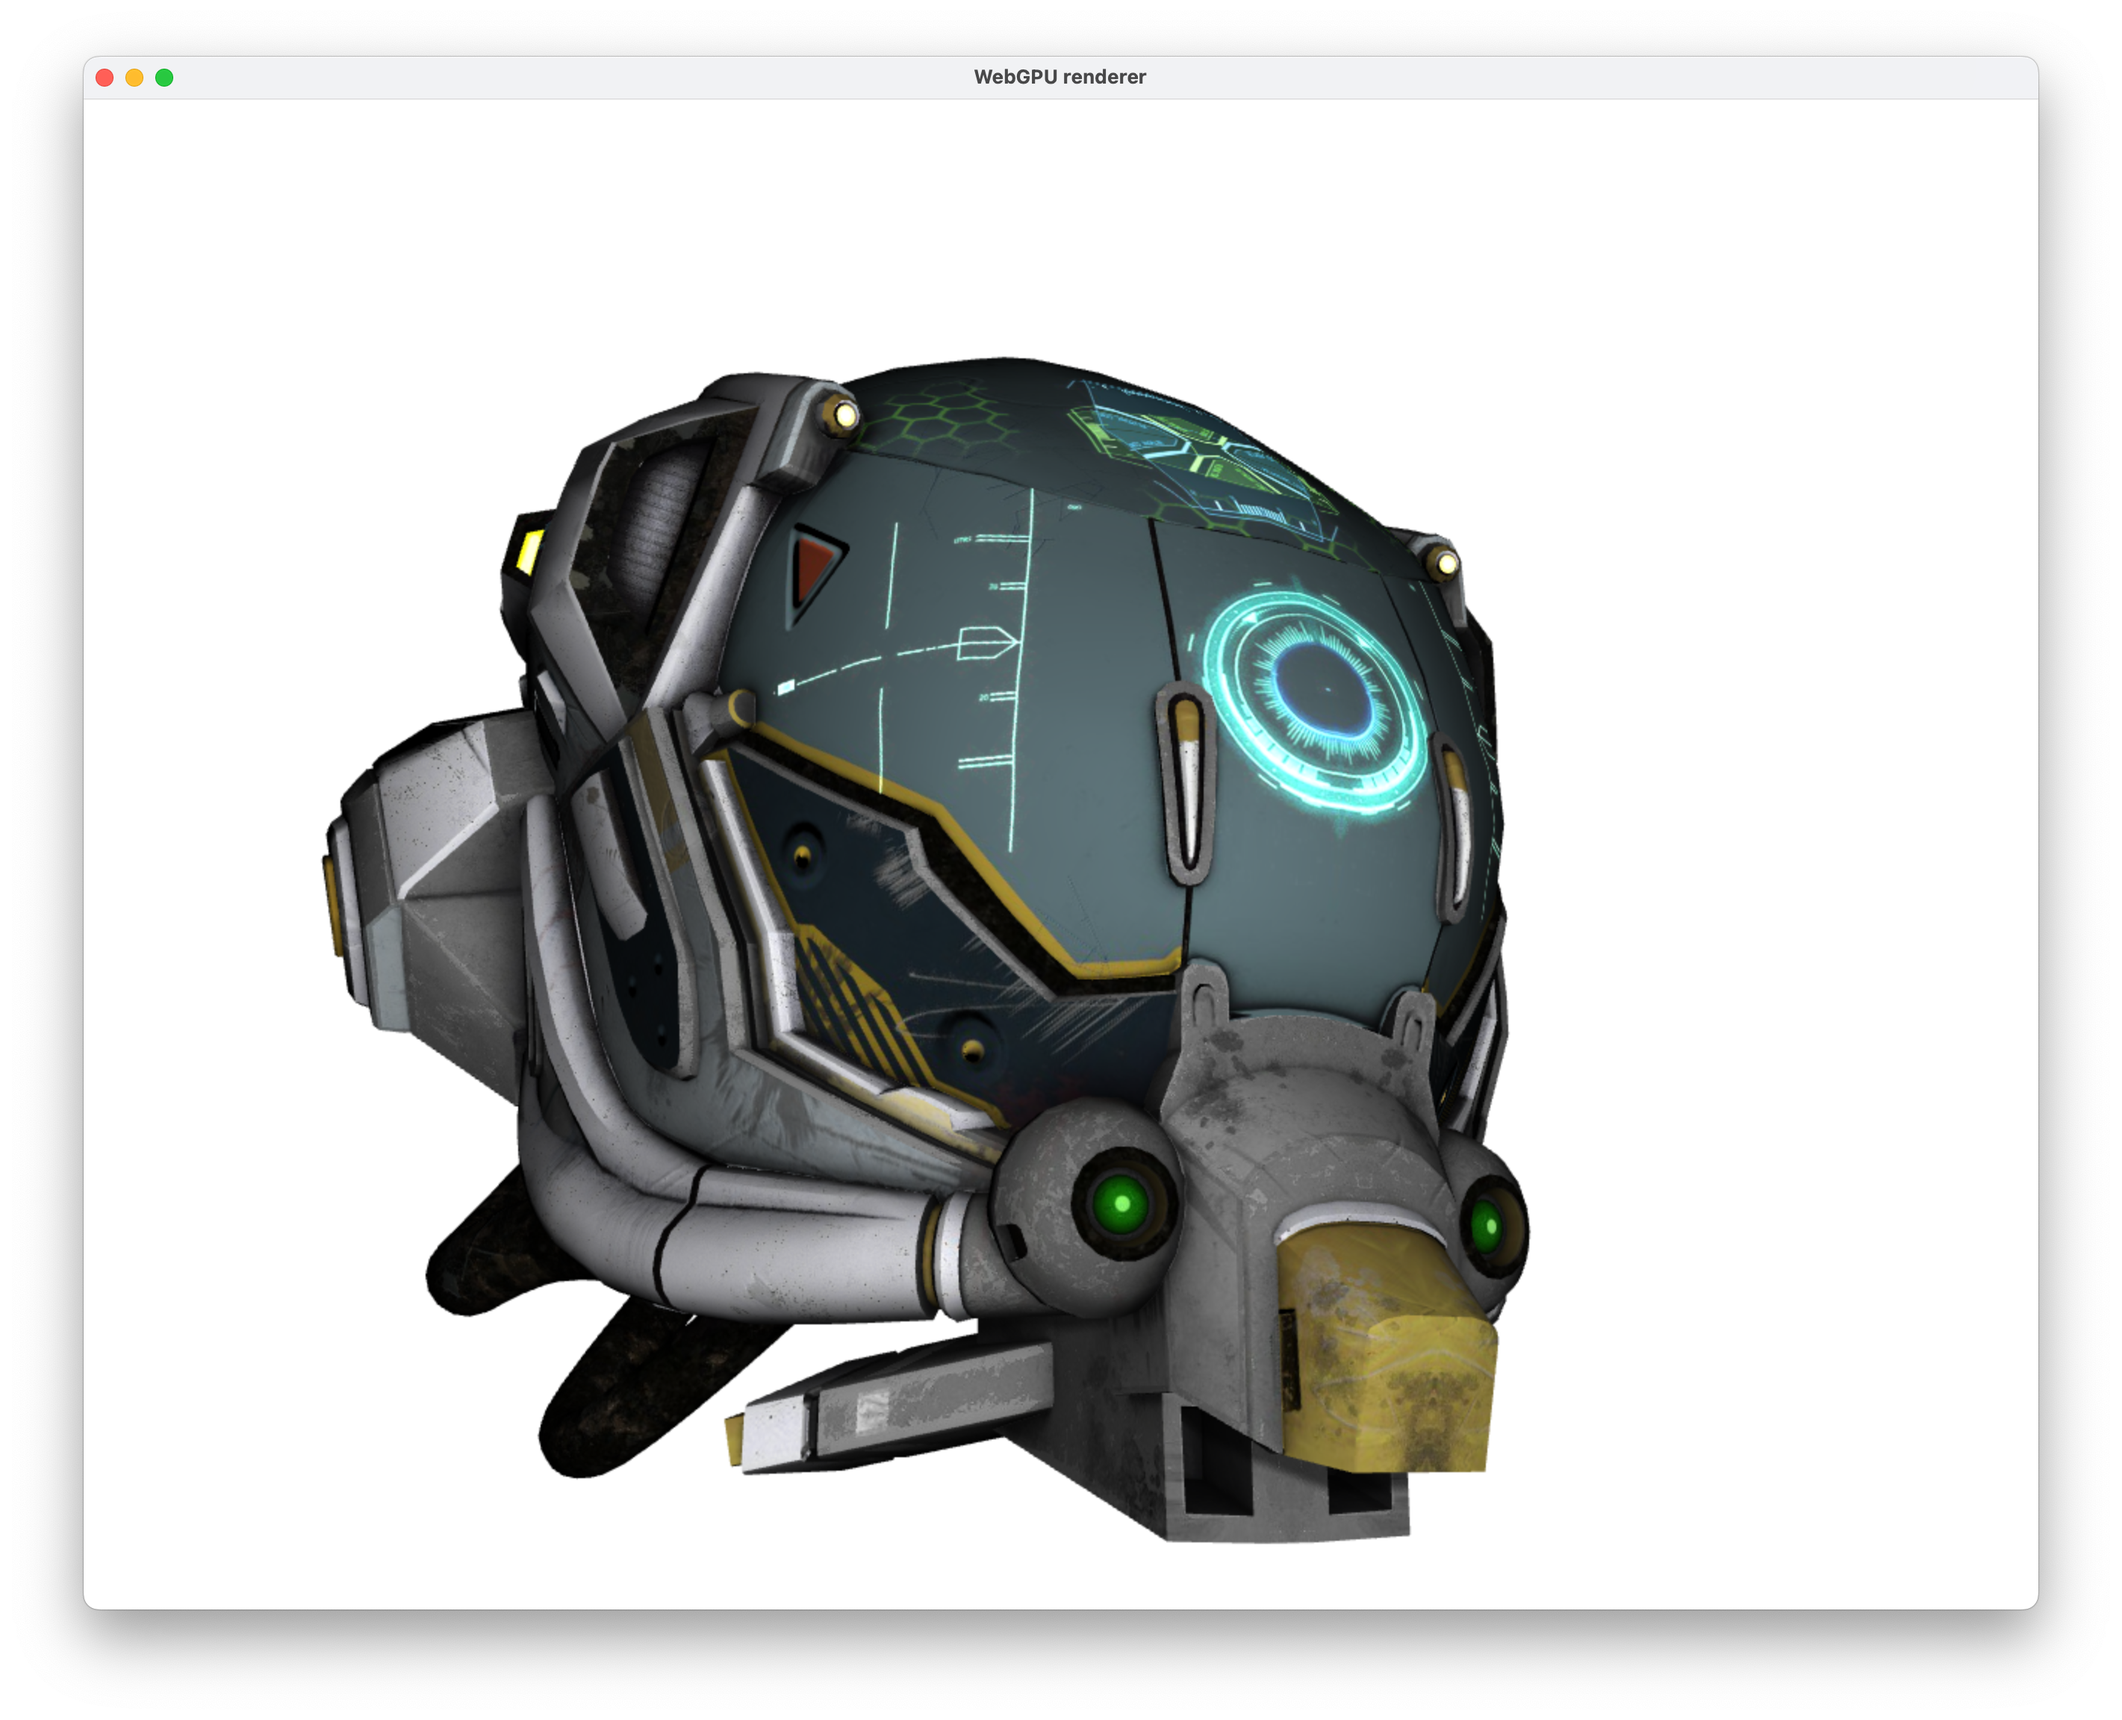
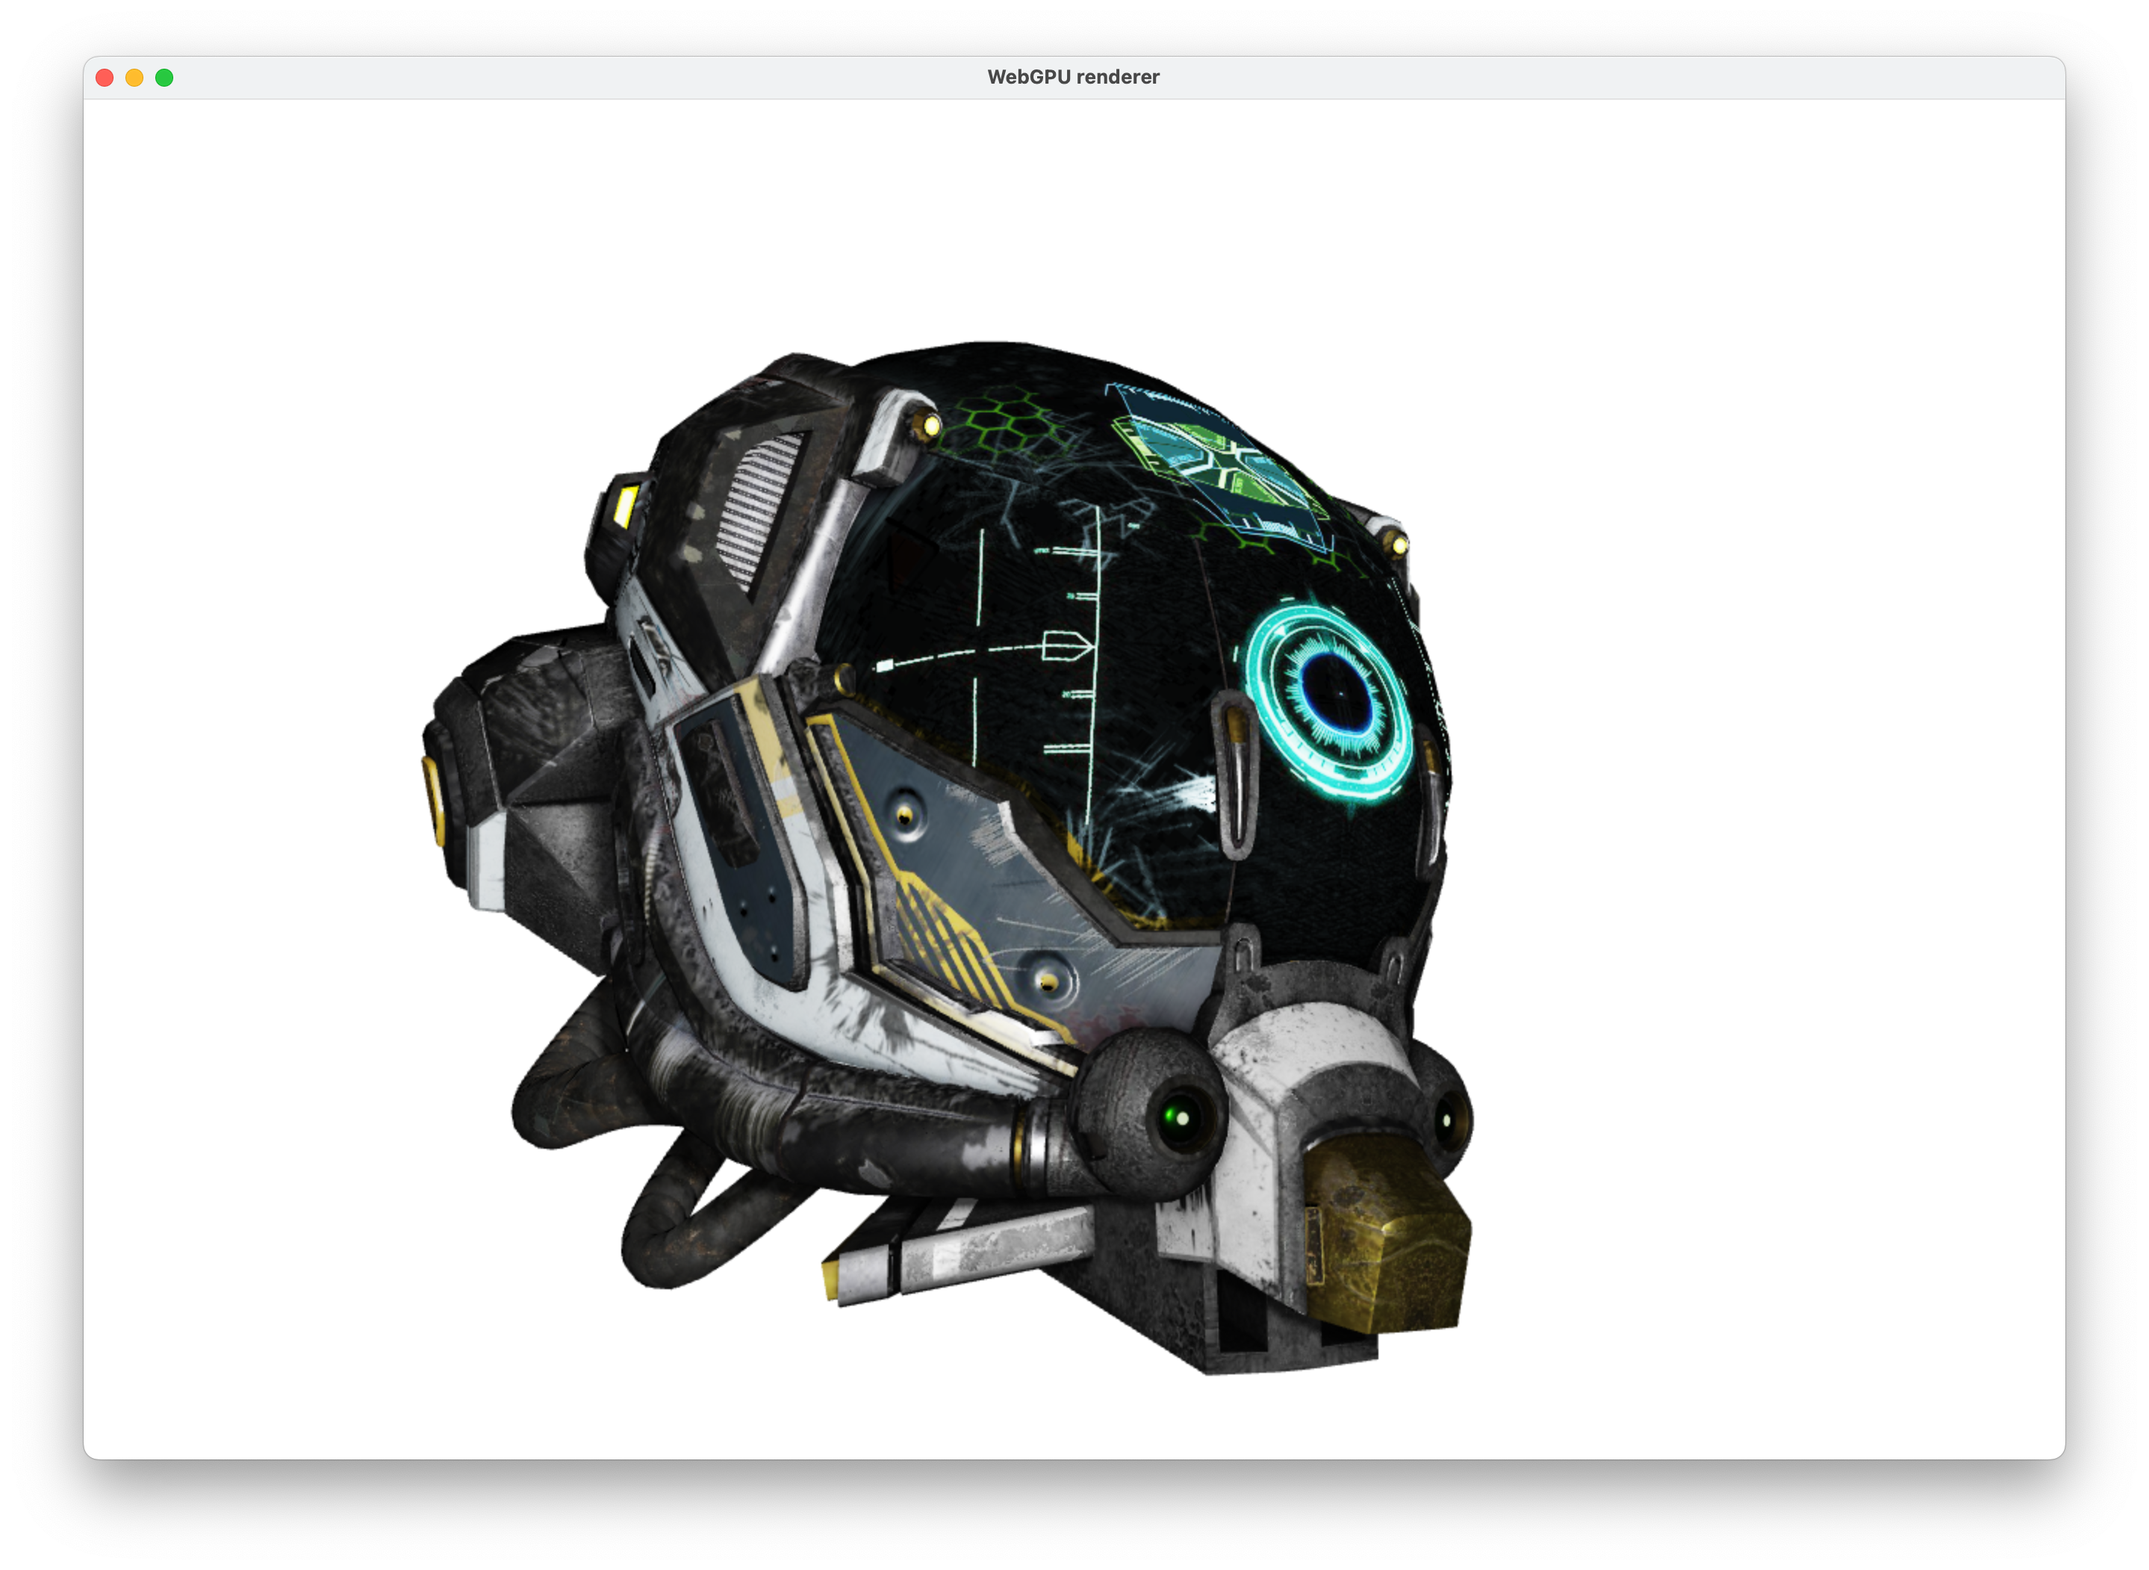
Use pbr shading

diff --git a/src/graphics/renderpass.cpp b/src/graphics/renderpass.cpp
@@ -48,11 +48,12 @@ void RenderPass::drawCommands(WGPURenderPassEncoder renderPass, const std::vecto
         Texture* occlusionTexture;
         Texture* normalsTexture;
         Texture* emissiveTexture;
+        Texture* metallicRoughnessTexture;
 
         if (renderable->material.baseColorTexture.has_value())
         {
             const Image& image = renderable->material.baseColorTexture.value();
-            baseColorTexture = &m_gpu.getResourcePool().get(&image);
+            baseColorTexture = &m_gpu.getResourcePool().get(&image, true);
         }
 
         if (renderable->material.occlusion.has_value())
@@ -70,10 +71,17 @@ void RenderPass::drawCommands(WGPURenderPassEncoder renderPass, const std::vecto
         if (renderable->material.emissive.has_value())
         {
             const Image& image = renderable->material.emissive.value();
-            emissiveTexture = &m_gpu.getResourcePool().get(&image);
+            emissiveTexture = &m_gpu.getResourcePool().get(&image, true);
         }
+
+        if (renderable->material.metallicRoughness.has_value())
+        {
+            const Image& image = renderable->material.metallicRoughness.value();
+            metallicRoughnessTexture = &m_gpu.getResourcePool().get(&image);
+        }
+
         // TODO: only rebind model group
-        createBindings(baseColorTexture, occlusionTexture, normalsTexture, emissiveTexture); 
+        createBindings(baseColorTexture, occlusionTexture, normalsTexture, emissiveTexture, metallicRoughnessTexture); 
 
         uint32_t dataOffset = index * m_gpu.uniformStride(sizeof(ModelData));
 
@@ -220,7 +228,7 @@ void RenderPass::createPipeline()
     blendState.alpha.operation = WGPUBlendOperation_Add;
 
     WGPUColorTargetState colorTarget{};
-    colorTarget.format      = m_renderTarget.m_surfaceFormat;
+colorTarget.format      = m_renderTarget.m_surfaceFormat;
     colorTarget.blend       = &blendState;
     colorTarget.writeMask   = WGPUColorWriteMask_All;
 
@@ -246,13 +254,14 @@ void RenderPass::createLayout(WGPURenderPipelineDescriptor& pipeline)
     fillDepthTextureBindGroupLayoutEntry        (frameEntries[1], 1);
     fillSamplerComparisonBindGroupLayoutEntry   (frameEntries[2], 2);
 
-    std::array<WGPUBindGroupLayoutEntry, 6> modelEntries{};
+    std::array<WGPUBindGroupLayoutEntry, 7> modelEntries{};
     fillUniformsBindGroupLayoutEntry (modelEntries[0], 0, sizeof(ModelData), true);
     fillSamplerBindGroupLayoutEntry  (modelEntries[1], 1);
     fillTextureBindGroupLayoutEntry  (modelEntries[2], 2);
     fillTextureBindGroupLayoutEntry  (modelEntries[3], 3);
     fillTextureBindGroupLayoutEntry  (modelEntries[4], 4);
     fillTextureBindGroupLayoutEntry  (modelEntries[5], 5);
+    fillTextureBindGroupLayoutEntry  (modelEntries[6], 6);
     
     WGPUBindGroupLayoutDescriptor groupLayoutFrame{};
     groupLayoutFrame.label = "grouplayout0 - per frame data";
@@ -277,7 +286,7 @@ void RenderPass::createLayout(WGPURenderPipelineDescriptor& pipeline)
     pipeline.layout = m_layout;
 }
 
-void RenderPass::createBindings(Texture* baseColorTexture, Texture* occlusionTexture, Texture* normalsTexture, Texture* emissiveTexture)
+void RenderPass::createBindings(Texture* baseColorTexture, Texture* occlusionTexture, Texture* normalsTexture, Texture* emissiveTexture, Texture* metallicRoughnessTexture)
 {
     for (WGPUBindGroup& group : m_bindGroups) if (group != nullptr)
         wgpuBindGroupRelease(group);
@@ -298,7 +307,7 @@ void RenderPass::createBindings(Texture* baseColorTexture, Texture* occlusionTex
     entryDepthSampler.binding = 2;
     entryDepthSampler.sampler = m_gpu.m_depthSampler;
 
-    std::array<WGPUBindGroupEntry, 6> bindings{};
+    std::array<WGPUBindGroupEntry, 7> bindings{};
     
     WGPUBindGroupEntry& entry1 = bindings[0];
     entry1.nextInChain = nullptr;
@@ -337,6 +346,13 @@ void RenderPass::createBindings(Texture* baseColorTexture, Texture* occlusionTex
         WGPUBindGroupEntry& entryEmissiveTexture = bindings[5];
         entryEmissiveTexture.binding = 5;
         entryEmissiveTexture.textureView = emissiveTexture->getTextureView();
+    }
+
+    if (metallicRoughnessTexture != nullptr)
+    {
+        WGPUBindGroupEntry& entryTexture = bindings[6];
+        entryTexture.binding = 6;
+        entryTexture.textureView = metallicRoughnessTexture->getTextureView();
     }
 
     WGPUBindGroupDescriptor group0{};

diff --git a/src/graphics/rendertarget.cpp b/src/graphics/rendertarget.cpp
@@ -14,7 +14,13 @@ WindowTarget::WindowTarget(Gpu& gpu)
     WGPUSurfaceCapabilities capabilities;
     capabilities.nextInChain = nullptr;
     wgpuSurfaceGetCapabilities(surface, gpu.m_adapter, &capabilities);
-    m_surfaceFormat = capabilities.formats[0];
+
+    for (int i = 0; i < capabilities.formatCount; i++)
+    {
+        std::cout << "Surface format supported: " << capabilities.formats[i] << std::endl;
+    }
+
+    m_surfaceFormat = WGPUTextureFormat::WGPUTextureFormat_BGRA8UnormSrgb;
 
     surfaceConfig.nextInChain      = nullptr;
     surfaceConfig.width            = 640;

diff --git a/src/graphics/resourcepool.cpp b/src/graphics/resourcepool.cpp
@@ -15,14 +15,14 @@ ResourcePool::~ResourcePool()
     
 };
 
-Texture& ResourcePool::get(const Image* image)
+Texture& ResourcePool::get(const Image* image, bool srgb)
 {
     auto it = m_poolTextures.find(image->getPixels());
     if (it == m_poolTextures.end()) 
     {
         Texture::Params params
         {
-            .format = Texture::Format::RGBA,
+            .format = srgb ? Texture::Format::RGBAsrgb : Texture::Format::RGBA,
             .sampleCount = 1,
             .usage = Texture::Usage::CopySrcTextureBinding
         };

diff --git a/src/graphics/texture.cpp b/src/graphics/texture.cpp
@@ -37,8 +37,11 @@ Texture::Texture(Gpu& gpu, Params params)
         case Format::RGBA:
             wgpuFormat = WGPUTextureFormat_RGBA8Unorm;
             break;
+        case Format::RGBAsrgb:
+            wgpuFormat = WGPUTextureFormat_RGBA8UnormSrgb;
+            break;
         case Format::BGRA:
-            wgpuFormat = WGPUTextureFormat_BGRA8Unorm;
+            wgpuFormat = WGPUTextureFormat_BGRA8UnormSrgb;
             break;
         case Format::R:
             wgpuFormat = WGPUTextureFormat_R8Unorm;

diff --git a/src/graphics/renderpass.h b/src/graphics/renderpass.h
@@ -50,6 +50,6 @@ private:
 
     void createPipeline();
     void createLayout(WGPURenderPipelineDescriptor& pipeline);
-    void createBindings(Texture* texture, Texture* occlusionTexture, Texture* normalsTexture, Texture* emissiveTexture);
+    void createBindings(Texture* texture, Texture* occlusionTexture, Texture* normalsTexture, Texture* emissiveTexture, Texture* metallicRoughnessTexture);
     void drawCommands(WGPURenderPassEncoder renderPass, const std::vector<const Renderable*>& renderables);
 };

diff --git a/src/io/loader.cpp b/src/io/loader.cpp
@@ -405,7 +405,8 @@ void fillMaterial(const tinygltf::Model& model, int materialIndex, Material& mat
     }
 
     if (pbr.metallicRoughnessTexture.index >= 0)
-    {     
+    {
+        std::cout << "Loading metallic roughness" << std::endl;
         material.metallicRoughnessTransforms = getTextureTransforms(pbr.metallicRoughnessTexture);
         material.metallicRoughness = getImage(pbr.metallicRoughnessTexture, model);
     }

diff --git a/src/graphics/resourcepool.h b/src/graphics/resourcepool.h
@@ -19,7 +19,7 @@ public:
     ResourcePool(Gpu& gpu);
     ~ResourcePool();
 
-    Texture&        get(const Image* image);
+    Texture&        get(const Image* image, bool srgb = false);
     VertexBuffer&   get(const Renderable* renderable);
   //  CubemapTexture& get(const Cubemap* cubemap);
 

diff --git a/src/graphics/texture.h b/src/graphics/texture.h
@@ -14,6 +14,7 @@ public:
     {
         Depth24Plus,
         Depth32,
+        RGBAsrgb,
         RGBA,
         BGRA,
         R,

diff --git a/Readme.md b/Readme.md
@@ -13,10 +13,10 @@ Current status:
     * emissive map
     * basic diffuse shading
     * shadow map
+    * PBR shading
 
 - Todo
     * shadow map poisson sampling
-    * PBR shading
     * generate mip map levels
     * reflection map
     * HDR
